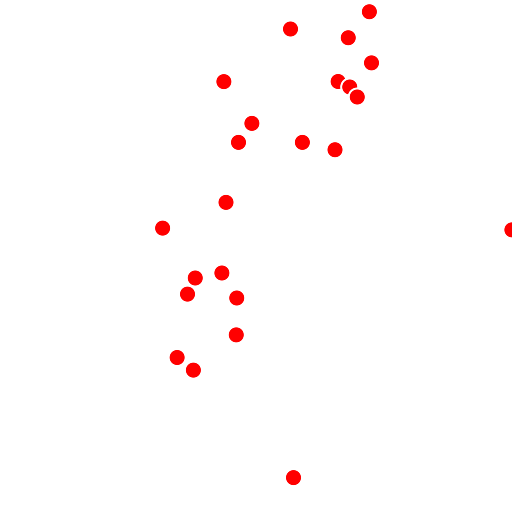
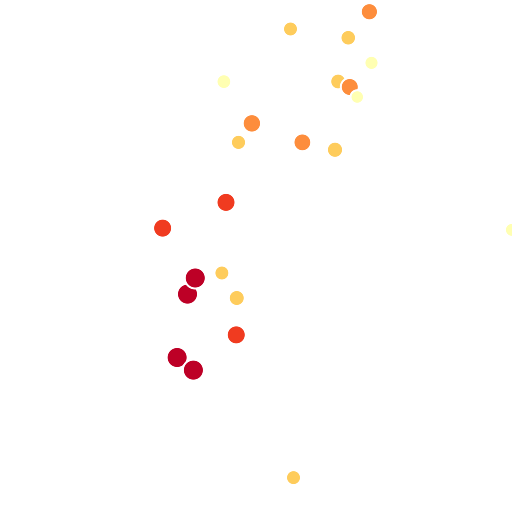
push

diff --git a/frontend/src/routes/map/data/entries/vector/fgb/point/fac_birds_census_2020.ts b/frontend/src/routes/map/data/entries/vector/fgb/point/fac_birds_census_2020.ts
@@ -1,0 +1,127 @@
+import type { GeoJsonMetaData, PointEntry } from '$routes/map/data/types/vector';
+import { COVER_IMAGE_BASE_PATH, ENTRY_FGB_PATH, MAP_IMAGE_BASE_PATH } from '$routes/constants';
+
+const entry: PointEntry<GeoJsonMetaData> = {
+	id: 'fac_birds_census_2020',
+	type: 'vector',
+	format: {
+		type: 'fgb',
+		geometryType: 'Point',
+		url: `${ENTRY_FGB_PATH}/fac_birds_census_2020.fgb`
+	},
+	metaData: {
+		name: '鳥類調査 2020年度',
+		description: '森林環境教育選考 「生物同定の基礎」より実施',
+		attribution: '森林文化アカデミー',
+		location: '森林文化アカデミー',
+		minZoom: 10,
+		maxZoom: 22,
+		tags: ['鳥類'],
+		bounds: [136.9165610000000015, 35.5507500000000007, 136.9230420000000095, 35.5569050000000004],
+		mapImage: `${MAP_IMAGE_BASE_PATH}/fac_birds_census_2020.webp`,
+		xyzImageTile: { x: 115387, y: 51671, z: 17 }
+	},
+	properties: {
+		attributeView: {
+			popupKeys: ['ele', 'time', 'name', 'kashmir3d_icon', 'kashmir3d_dir', 'id'],
+			titles: [
+				{
+					conditions: ['name'],
+					template: '{name}'
+				},
+				{
+					conditions: [],
+					template: '鳥類'
+				}
+			]
+		},
+		fields: [
+			{
+				key: 'ele',
+				label: '標高',
+				type: 'number'
+			},
+			{
+				key: 'time',
+				label: '時間',
+				type: 'date'
+			},
+			{
+				key: 'name',
+				label: '種名'
+			},
+			{
+				key: 'kashmir3d_icon',
+				label: 'kashmir3d_icon'
+			},
+			{
+				key: 'kashmir3d_dir',
+				label: 'kashmir3d_dir'
+			},
+			{
+				key: 'id',
+				label: 'id'
+			}
+		]
+	},
+	interaction: {
+		clickable: true
+	},
+	style: {
+		type: 'circle',
+		opacity: 0.7,
+		markerType: 'circle',
+		colors: {
+			show: true,
+			key: '単色',
+			expressions: [
+				{
+					type: 'single',
+					key: '単色',
+					name: '単色',
+					mapping: {
+						value: '#cab2d6'
+					}
+				}
+			]
+		},
+		radius: {
+			key: '単一',
+			expressions: [
+				{
+					type: 'single',
+					key: '単一',
+					name: '単一',
+					mapping: {
+						value: 8
+					}
+				}
+			]
+		},
+		outline: {
+			show: true,
+			color: '#ffffff',
+			width: 2
+		},
+		labels: {
+			key: 'name',
+			show: true,
+			expressions: [
+				{
+					key: 'ele',
+					name: 'ele'
+				},
+				{
+					key: 'time',
+					name: '時間'
+				},
+				{
+					key: 'name',
+					name: '種名'
+				}
+			]
+		}
+	}
+};
+
+export default entry;

diff --git a/frontend/src/routes/map/data/entries/vector/fgb/point/ensyurin_kikenboku_h25.ts b/frontend/src/routes/map/data/entries/vector/fgb/point/ensyurin_kikenboku_h25.ts
@@ -10,7 +10,7 @@ const entry: PointEntry<GeoJsonMetaData> = {
 		url: `${ENTRY_FGB_PATH}/ensyurin_kikenboku_h25.fgb`
 	},
 	metaData: {
-		name: '演習林 危険木調査2013年度',
+		name: '演習林 危険木調査 2013年度',
 		description: '',
 		attribution: '森林文化アカデミー',
 		location: '森林文化アカデミー',
@@ -26,10 +26,6 @@ const entry: PointEntry<GeoJsonMetaData> = {
 		attributeView: {
 			popupKeys: ['樹種', '胸高直径（ｃｍ）', '状態', '調査日時', '備考'],
 			titles: [
-				{
-					conditions: ['樹種', '状態'],
-					template: '{樹種} {状態}'
-				},
 				{
 					conditions: ['樹種'],
 					template: '{樹種}'
@@ -58,7 +54,7 @@ const entry: PointEntry<GeoJsonMetaData> = {
 		markerType: 'circle',
 		colors: {
 			show: true,
-			key: '単色',
+			key: '胸高直径（ｃｍ）',
 			expressions: [
 				{
 					type: 'single',
@@ -96,7 +92,7 @@ const entry: PointEntry<GeoJsonMetaData> = {
 					key: '胸高直径（ｃｍ）',
 					name: '胸高直径',
 					mapping: {
-						range: [10, 50],
+						range: [1, 50],
 						values: [5, 10]
 					}
 				}

diff --git a/frontend/src/routes/map/data/entries/vector/fgb/point/ensyurin_pole.ts b/frontend/src/routes/map/data/entries/vector/fgb/point/ensyurin_pole.ts
@@ -24,18 +24,20 @@ const entry: VectorEntry<GeoJsonMetaData> = {
 		mapImage: `${MAP_IMAGE_BASE_PATH}/ensyurin_pole.webp`
 	},
 	properties: {
-		keys: ['name'],
-
-		titles: [
-			{
-				conditions: ['name'],
-				template: '{name}'
-			},
-			{
-				conditions: [],
-				template: 'サインポール'
-			}
-		]
+		attributeView: {
+			popupKeys: ['name'],
+			titles: [
+				{
+					conditions: ['name'],
+					template: '{name}'
+				},
+				{
+					conditions: [],
+					template: 'サインポール'
+				}
+			]
+		},
+		fields: [{ key: 'name', type: 'string' }]
 	},
 	interaction: {
 		clickable: true
@@ -77,13 +79,12 @@ const entry: VectorEntry<GeoJsonMetaData> = {
 			width: 2
 		},
 		labels: {
-			key: '名前',
+			key: 'name',
 			show: false,
 			expressions: [
 				{
-					key: '名前',
-					name: 'ポールの名前',
-					value: '{name}'
+					key: 'name',
+					name: 'ポールの名称'
 				}
 			]
 		}

diff --git a/frontend/src/routes/map/utils/layers/vector/expression/number.ts b/frontend/src/routes/map/utils/layers/vector/expression/number.ts
@@ -96,7 +96,15 @@ export const generateNumberLinearExpression = (
 	const [inputMin, inputMax] = mapping.range;
 	const [outputMin, outputMax] = mapping.values;
 
-	return ['interpolate', ['linear'], ['get', key], inputMin, outputMin, inputMax, outputMax];
+	return [
+		'interpolate',
+		['linear'],
+		['to-number', ['get', key], inputMin], // 文字列数字にも対応
+		inputMin,
+		outputMin,
+		inputMax,
+		outputMax
+	] as DataDrivenPropertyValueSpecification<number>;
 };
 
 export const getNumberExpression = (numbers: NumbersStyle) => {

diff --git a/frontend/src/routes/map/data/types/tags.ts b/frontend/src/routes/map/data/types/tags.ts
@@ -53,7 +53,8 @@ export const TAG_LIST = [
 	'施設平面図',
 	'CAD',
 	'点群',
-	'3Dモデル'
+	'3Dモデル',
+	'鳥類'
 ] as const;
 
 // 配列から型を生成
